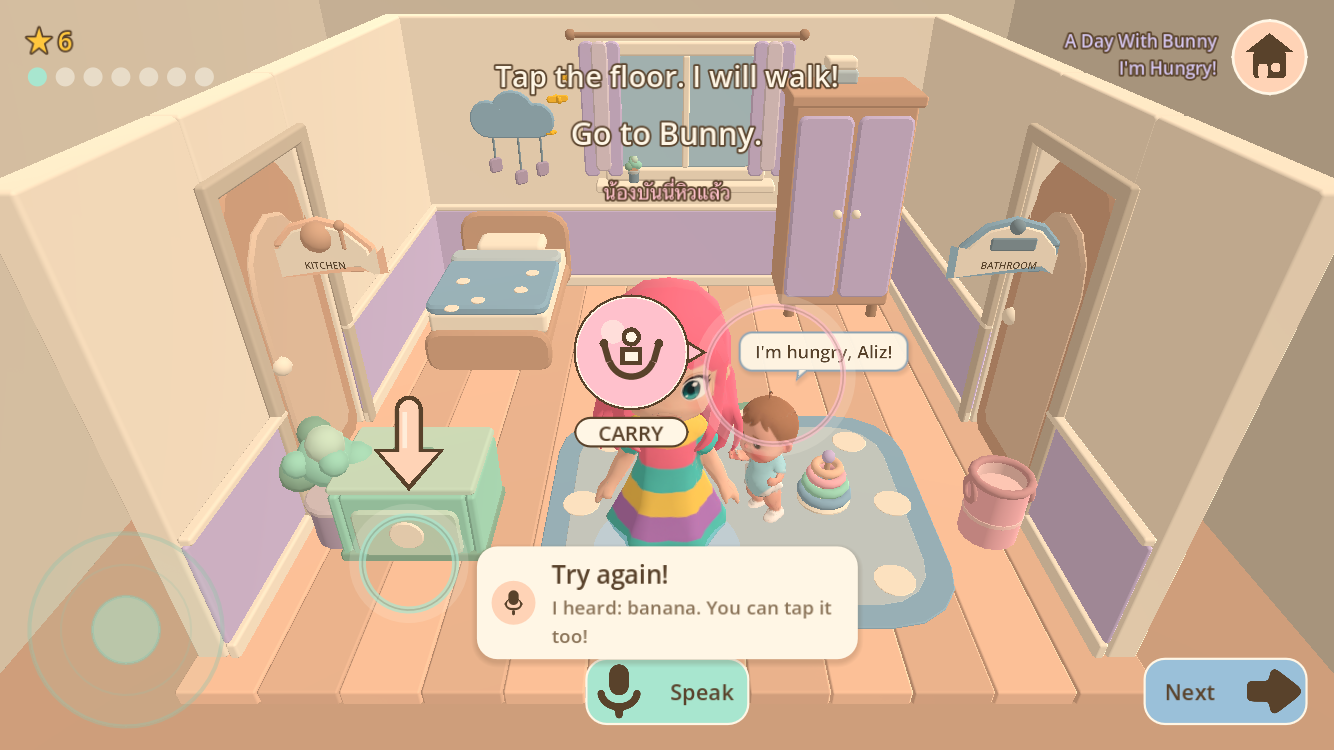
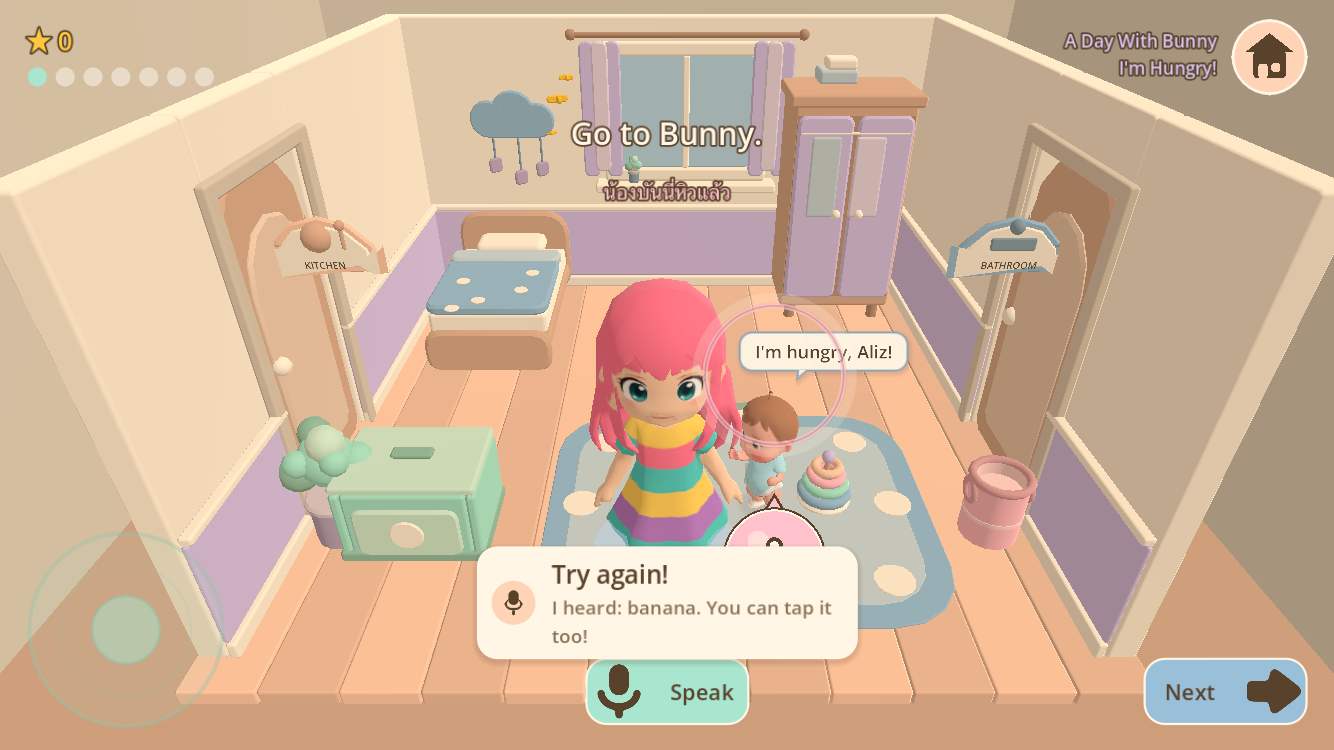
affordance: Aliz's face is a badge keep-out; door harness stages at an open door
QA of the integrated build (report and key frames committed) found the CARRY
disc on Aliz's face when she stands square to the camera in front of Bunny.
Her head is now a keep-out for every badge (evidence: face_ipad_story_hug.png,
badge below Bunny, bubble clear). The default UX harness expected ENTER on the
living-room door, which a free-starter profile locks (SOON is correct); it now
stages at the bedroom door.

diff --git a/docs/QA_INTEGRATED_cad57ef.md b/docs/QA_INTEGRATED_cad57ef.md
@@ -1,0 +1,204 @@
+# QA — integrated build cad57ef (Agent G, 2026-09-20)
+
+Read-only verification of `wt2/qa` at commit `cad57ef` ("chore: .uid sidecars for the character
+pass" — the fully integrated HEAD of six workstreams). Godot 4.7.2.stable, macOS, Metal / Mobile
+renderer. The speech plugin binaries were linked from the main checkout
+(`game/ios/speech_plugin/bin` symlink, the only non-`qa2_` untracked path in the worktree) so the
+editor build loads `LittleBuddySpeech` exactly as the shipping editor does.
+
+Every frame cited below was rendered in this session by the project's own harnesses (or by a
+QA-only probe script kept outside the repo in the session scratchpad) from the shipping scenes,
+saved as `docs/shots/qa2_*.png` (134 files), and opened and judged by eye. iPad = 1334x750,
+iPhone = 2340x1080, both from a `SubViewport` with the PNG size asserted; the two character
+tools (`aliz_shots.gd`, `bunny_shots.gd`) photograph the root window at 1334x750. Every `qa2_*.png`
+was re-measured afterwards: 86 x 1334x750, 46 x 2340x1080, plus the two tiled sheets
+(`qa2_aliz_face_sheet.png` 1986x792, `qa2_bunny_sheet.png` 3660x1037). **No wrong-size PNG.**
+
+Harnesses whose file names are fixed (feeding, carry, settings, branding) overwrite tracked
+frames; each output was copied to its `qa2_` name and the tracked original restored with
+`git checkout`, so the worktree's tracked files are unchanged. Where a re-render was byte-identical
+to the committed frame (deterministic renders: `feeding_summary_*`, `settings_*`, `settings_gate_*`)
+the fresh file's mtime was checked before copying.
+
+**No physical device was used. Nothing here is a device result. Nothing was committed.**
+
+## Verdict
+
+**0 crashes, 0 freezes, 0 tap-through completions, 0 duplicate Bunnies, 0 floating objects,
+0 tofu glyphs, 0 wrong-size frames, 0 mock-speech successes. Suite `PASS - 140 case(s)`, both
+mission smokes and the audio smoke green, backend `ios`.**
+
+Two visible defects should be looked at before the child plays (neither blocks the playtest);
+the rest is cosmetic. Details per acceptance test below and in "Release-blocking vs cosmetic".
+
+## Test and smoke results (verbatim)
+
+| Run | Result line(s) |
+|---|---|
+| `res://tests/run_tests.gd` (headless) | `PASS - 140 case(s), 0 failure(s)` |
+| `test_aliz_life` (inside the suite) | `idle proof -- bone deltas from rest, sampled 1.5 s apart:` / `t=0.3s  head (+1.03, -0.12, +0.49) cm  head 0.50 deg  spine 0.30 deg  hips 1.53 deg` / `t=1.8s  head (+1.25, +0.08, -0.70) cm  head 0.60 deg  spine 0.96 deg  hips 2.00 deg` / `t=3.3s  head (+1.27, -0.13, +0.51) cm  head 0.48 deg  spine 0.94 deg  hips 2.12 deg` / `t=4.8s  head (-1.28, +0.07, -0.29) cm  head 0.20 deg  spine 0.64 deg  hips 2.00 deg` |
+| suite cases named by the ATs | `[PASS] speech_end_states`, `[PASS] speech_never_mocks_on_device`, `[PASS] speech_never_required`, `[PASS] speech_privacy_guard`, `[PASS] click_to_move_freeze`, `[PASS] parent_gate`, `[PASS] parent_settings_screen`, `[PASS] feeding_table`, `[PASS] level_summary`, `[PASS] affordance`, `[PASS] bubble_placement`, `[PASS] carry_bunny`, `[PASS] carry_props`, `[PASS] hud_helper_language`, `[PASS] localization`, `[PASS] menu_wow`, `[PASS] branding_splash`, `[PASS] version`, `[PASS] bunny_life`, `[PASS] bunny_face`, `[PASS] aliz_face` |
+| `res://tests/smoke_mission01.gd` | `1. fresh profile opened: imHungry` … `3. beats played: 7, care mini-games finished by gesture: 2` / `4. Bunny's hunger after: 0.0 (was 55.0)` / `5. mission_completed fired 1 time(s); tasks awarded: 7` / `6. saved: completed=true stars=3/3  lifetime stars=10` / `7. replay re-armed 'imHungry'; lifetime stars still 10` / `SMOKE PASS -- Mission 01 played end to end in the real house.` |
+| `res://tests/smoke_mission01.gd -- snackTime` | `0. profile reset; 1 earlier level(s) marked played` / `1. fresh profile opened: snackTime` … `3. beats played: 8` / `6. saved: completed=true stars=3/3  lifetime stars=12` / `7. replay re-armed 'snackTime'; lifetime stars still 12` / `SMOKE PASS -- Mission 01 played end to end in the real house.` |
+| `res://tests/smoke_audio_shipping.gd` | `2. shipped manifest: []` / `3. main.tscn in the tree -> state 'menu', track 'littleDaysTheme'` / `live player: /root/Audio/MusicVoice0 ... from=little_days_theme.ogg imported=true playing=true -16.9 dB` / `4. house_world.tscn in the tree -> state 'house'` / `5. mission 'imHungry' running -> state 'miniGame', track 'hungryBunny'` / `live player: /root/Audio/MusicVoice1 ... from=hungry_bunny.ogg ... playing=true` / `6. AudioStreamPlayers holding a music stream, whole tree: 1` / `7. 4 room transitions later: track 'hungryBunny', position 1.02 s -> 2.32 s, track_started fired 1 time(s)` / `speaking -> music -26.0 dB (duck gain 0.316), still playing=true` / `9. mid-crossfade menu -> miniGame: ["littleDaysTheme @ -15.3 dB", "hungryBunny @ -26.1 dB"] (fading=true)` / `10. muted -> playing=false, players holding music=0` / `SMOKE PASS -- both delivered tracks play in the real game, one at a time,` |
+| QA house-music probe (headless, real `Audio` autoload) | `menu (main.tscn): state 'menu', track 'littleDaysTheme', is_playing_music=true, silent_build=false, live music players: ["MusicVoice0 playing=true pos=1.02"]` / `house Free Play (house_world.tscn): state 'house', track 'littleDaysTheme', is_playing_music=true ... ["MusicVoice0 playing=true pos=2.79"]` / `house after room change to kitchen: state 'house', track 'littleDaysTheme' ... ["MusicVoice0 playing=true pos=3.81"]` (same player, position only moves forward) |
+| QA speech-backend probe (headless, plugin linked) | `has_singleton LittleBuddySpeech: true` / `backend: ios` / `available: true  permission: false` / `fallbackActive: false` / `nativeSingletonPresent: true` / `platform: macOS` (`ttsAvailable: false` is the headless artefact; the on-disk `speech_diag.json` from windowed runs says `ttsAvailable: true`) |
+| QA splash timing probe (windowed, real `run/main_scene`) | `run/main_scene = res://scenes/splash/splash.tscn` / `t=0.02 s current_scene=res://scenes/splash/splash.tscn` / `t=1.72 s current_scene=res://scenes/main/main.tscn` / `SPLASH -> MENU hand-over at 1.72 s (limit 3.0 s): OK` (then `t=3.32 s current_scene=res://scenes/house/house_world.tscn` — the first-run auto hand-off, because this Mac's `user://profile.json` has no `onboardingDone`; by design, see AT1 notes) |
+| QA menu probe (windowed, 1334x750) | `garden ambient time 1.43 -> 4.57 s; Node3Ds tracked 891; translated 517; rotated 558` / `frames per second while menu ran: 60` / `press FreePlayButton: signal returned in 233 ms; 4.2 s later scenes=["house_world.tscn", ...]; departure=phase=done elapsed=2.51; fps=60; current_scene=house_world.tscn` / `press DressUpButton: ... scenes=["dress_up.tscn", ...]; fps=60; current_scene=dress_up.tscn` / `press ParentButton: ... scenes=["parent_settings.tscn", ...]; fps=60; current_scene=parent_settings.tscn` / `press PlayButton: ... scenes=["baby_room.tscn", ...]; departure=phase=done elapsed=2.52; fps=46; current_scene=baby_room.tscn` / `MENU PROBE OK` |
+| QA tap-through probe (windowed, real `baby_room.tscn` + `MissionRunner`, feedingTime) | `tap_item(apple): ok -- a plain tap did NOT deliver the apple (nudges=0, tapHelp=false)` / `real tap event: ok -- press+release at (667.0, 609.7944) did NOT deliver` / `real drag event: ok -- a real drag to the mouth DID deliver the apple; clip=eat` / `cup no hold: ok -- a cup released after 0.15 s (hold needs 1.2 s) did NOT deliver` / `cup held: ok -- holding 1.2 s DID deliver` / `after 1 nudge: ok -- one nudge: a tap still does NOT deliver` / `after 2 nudges: ok -- tap help offered after nudge #2` / `after 2 nudges: ok -- the touch fallback tap DID deliver` / `version: ok -- no version label visible in baby_room/highchair (found [])` / `TAPTHROUGH PROBE OK -- the highchair is not a tap-through` |
+| QA off-navmesh tap probe (windowed, real `house_world.tscn` Free Play, `NavigationController.apply_tap`) | `apron (5 m off the mesh, in front): tap at (0.4, 7.0) accepted=true; moved 1.68 m in 3.0 s; frames rendered 181 (60 fps); busy=false` / `far behind the left wall: tap at (-6.0, -2.0) accepted=true; moved 2.73 m in 3.0 s; frames rendered 183 (61 fps); busy=false` / `ordinary floor tap afterwards: ... accepted=true; moved 2.08 m ... busy=false` / `OFFMESH PROBE OK []` |
+| `shots_menu.gd` x5 (ipad, iphone, pressed, dressup mint, dressup iphone) | `MENU SHOT OK` each; `play caption: 'Start'`; `Aliz model available = true`; `swatch: mint  accent colour: (0.659, 0.902, 0.812, 1.0)` |
+| `tools/branding_shots.gd -- 1334 750` | `BRAND SHOTS OK` (4 frames, `aspect 1.78`) |
+| `shots_feeding.gd -- 1334x750` / `-- 2340x1080` | `FEEDING SHOTS OK -- 8 frame(s) at 1334x750.` / `FEEDING SHOTS OK -- 8 frame(s) at 2340x1080.`; every `_check_state` line `ok` (apple dragged, delivered, clip `eat`; banana unpeeled -> peeled; clip `drink` + cup tipped; `one mistake counted`, `Bunny's face is unhappy`, `half star`; `guided mode is on`; `session summary is up`) |
+| `shots_settings.gd -- ipad 1334x750` / `-- iphone 2340x1080` | `SETTINGS SHOTS OK` both; `th helper: 'น้องบันนี่หิวแล้ว' (rtl=false)`, `ja helper: 'バニーのところへ行こう。'`, `ar helper: 'اذهب إلى الأرنب.' (rtl=true)`; `speech success: 'Great!' / 'You said: milk'`, `speech retry: 'Try again!' / 'I heard: banana. You can tap it too!'`, `speech unavailable: 'Voice is not ready' / 'Tap it instead!'` |
+| `shots_ux.gd -- qa2_ux_ipad 1334 750 free` / iphone | `UX SHOTS OK` both; `badge_bedroom: disc 96 px on a 750 px tall frame` / `badge_bedroom: disc 138 px on a 1080 px tall frame`; `sofa_sit: origin (18.92, 0.03, -1.34), pose sit`; `locked_sign: SOON on bedroom.doorToBathroom` |
+| `shots_ux.gd -- qa2_ux_ipad 1334 750` / iphone (default run) | `UX SHOTS FAIL:` / `  - door_enter: the layer shows 'SOON' on 'kitchen.doorToLivingRoom'; expected ENTER on kitchen.doorToLivingRoom` (both sizes; every other frame in the run asserted ok — see AT4: the living room IS locked in Free Play on a fresh profile, so the sign is correct and the harness expectation is stale) |
+| `shots_ux.gd ... story` x2 | `UX SHOTS OK` both |
+| `shots_carry.gd -- ipad` / `-- iphone` | `CARRY SHOTS OK` both; `after a walk: Bunny root at (0.008567, 0.359867, -0.279995) in her frame, state=held, socket=true, clip=carried, activity=carried` / `placed: floor gap 0.000 m, 0.59 m from her, carried=false, state=idle` / `hunger before 55.0, after 55.0` / `toy held at (0.246676, 0.579834, -0.069118) in her frame, socket itemHoldRight` / `toy placed 0.000 m from its pad` |
+| `shots_rc.gd` x2 | `beat reached: 'feedBunnyCare'` / `RC SHOTS OK` (aspect 1.78 and 2.17) |
+| `tools/aliz_shots.gd -- qa2_aliz idle` / `mood`; `tools/bunny_shots.gd -- qa2_bunny` | all `ok`; `moods: ["content", "happy", "surprised", "sleepy"]` (+blink); Bunny `moods: ["content", "unhappy", "delighted", "asleep", "hungry", "sleepy", "hmph"]  clips: [..., "carried", "celebrate", "drink", "eat", "fuss", "idle", "run", "sleep", "stamp", "walk"]` |
+| `--headless --path game --import` | exit 0, no errors (one `cannot connect to daemon at tcp:5037` line = no adb, harmless) |
+
+## AT1 — Home screen
+
+| Sub-test | Result | Frame(s) | Notes / exact defect |
+|---|---|---|---|
+| Premium, colourful, non-empty | PASS | `qa2_menu_ipad.png`, `qa2_menu_iphone.png` | Storybook garden (11 trees, 51 flowers, 6 clouds, cat, butterflies, toys, mailbox, sign), pink cottage, Aliz + one Bunny, logo, four big pastel buttons. Readable at both sizes; iPhone safe-area composition is fine. |
+| Animated (two frames 3 s apart) | PASS | `qa2_menu_anim_t0.png`, `qa2_menu_anim_t3.png` | Probe counted 517 garden Node3Ds translated and 558 rotated between t=1.4 s and t=4.6 s (`garden.tick` via its own `_process`); by eye the clouds have drifted, the butterfly by the sign moved ~90 px, canopies lean. 60 fps. |
+| Start responds, no freeze | PASS | probe line | Departure walk plays (`phase=done elapsed=2.52`), hand-off to `baby_room.tscn` (story route, SaveService detached = non-first-run). 46 fps during the room load, back to 60. |
+| Free Play responds | PASS | probe line | Departure, hand-off to `house_world.tscn`, 60 fps. |
+| Dress Up responds and opens `dress_up.tscn` | PASS | `qa2_dressup_mint_ipad.png`, `qa2_dressup_iphone.png` | Opens the dress-up stage; swatch applies (mint hem/bow/shoes); Back button. Cosmetic: the bunting at the top edge is clipped by the frame at 1334x750. |
+| Grown-ups responds, full gate card in standalone mode | PASS | `qa2_settings_gate_ipad.png`, `qa2_settings_gate_iphone.png` | `parent_settings.tscn` comes up as the gate card: "For grown-ups / Press and hold the bar for 3 seconds… / Hold for 3 seconds to open (Thai line) / Back to the game". |
+| Version text only on the title screen | PASS | `qa2_menu_*.png` (present, `v0.1.0` bottom-right), `qa2_ux_*_home_version.png`, every house frame, every `qa2_feeding_*` frame (absent) | Probe: `version labels on title: [".../UI/SafeArea/VersionLabel 'v0.1.0' visible=true"]`; tap-through probe: `no version label visible in baby_room/highchair (found [])`. Note: the splash also prints `v0.1.0` bottom-right (`qa2_brand_splash_1334x750.png`) — branding screen, not the HUD; flagging in case "ONLY the title" was meant literally. |
+| Splash is first scene, hands over within 3 s | PASS | `qa2_brand_splash_intro_1334x750.png`, `qa2_brand_splash_1334x750.png`, `qa2_brand_curtain_1334x750.png` | `run/main_scene = res://scenes/splash/splash.tscn`; hand-over at **1.72 s**. Observation, by design: on this Mac's fresh profile (no `onboardingDone`) the menu then auto-opens the house at 3.32 s (`FIRST_RUN_DELAY_SEC` first-run tutorial). A returning profile does not do this. |
+
+## AT2 — Guided feeding (highchair)
+
+| Sub-test | Result | Frame(s) | Notes / exact defect |
+|---|---|---|---|
+| Start on a non-first-run profile -> `baby_room.tscn` | PASS | probe line | `press PlayButton ... current_scene=baby_room.tscn`. |
+| Apple: drag to mouth, Bunny bites (eat clip, sparkles) | PASS | `qa2_feeding_apple_drag_1334x750.png`, `qa2_feeding_apple_bite_1334x750.png` (+ 2340x1080) | Mid-drag apple lifted toward the mouth; bite frame: apple shrunk, yellow sparkle confetti, `clip=eat`, arms up. Cosmetic: during the eat clip the apple reads as sitting on his nose/cheek rather than at the lips. |
+| Banana: peel then give | PASS | `qa2_feeding_banana_unpeeled_*.png`, `qa2_feeding_banana_peeled_*.png` | Unpeeled -> peeled (skin splayed) on tap; then drag delivers. |
+| Cup/bottle: hold, Bunny drinks | PASS | `qa2_feeding_cup_drink_1334x750.png`, `_2340x1080.png` | `clip=drink`, cup tilt > 0.3, hands at the mouth, fill/hold works (probe: 0.15 s release does not deliver, 1.2 s hold does). Cosmetic: the tipped cup sits a little low, rim at the chin/hands rather than the lips, with the cup body overlapping the chest. |
+| Wrong item -> head turn, unhappy face, "Try the apple!", half star | PASS | `qa2_feeding_wrong_item_1334x750.png`, `_2340x1080.png` | Head turned away, brows down, "Try the apple!" pill, star counter shows the half star; `get_mistakes()==1`, `CREDIT_HALF`. |
+| Second mistake -> guided glow/arrow | PASS | `qa2_feeding_guided_1334x750.png`, `_2340x1080.png` | Apple plate glows, dotted arrow from Bunny down to the apple, `is_guided()==true`. |
+| Success -> celebrate | PASS | `qa2_feeding_apple_bite_*`, summary | `celebrate` clip present; summary "Great job!". |
+| NOT a tap-through | **PASS** | `qa2_feeding_tap_no_complete_1334x750.png` + probe lines | Public `tap_item("apple")`, and a real press+release `InputEventMouseButton` at the apple's screen position through the viewport input path, both leave the task open (`is_delivered=false`, hop only). Only the drag (or the 1.2 s hold for the cup) delivers. The touch fallback appears only after the second idle nudge (`NUDGE_IDLE_SECONDS 7.0` x `NUDGES_BEFORE_TAP_HELP 2`), and then it does deliver. |
+| Summary card | PASS | `qa2_feeding_summary_1334x750.png`, `_2340x1080.png` | "Great job! / Milk Time", 3 glossy stars, "+5", "So close!" half star, Apple sticker card, Back / Replay / Next. ("Milk Time" is the `levelTitle` of `feedingTime` by design.) |
+
+## AT3 — UI quality
+
+| Sub-test | Result | Frame(s) | Notes / exact defect |
+|---|---|---|---|
+| Buttons/icons polished and readable at both sizes | PASS | `qa2_menu_*`, `qa2_feeding_*_2340x1080`, `qa2_ux_iphone_*` | Bevelled pastel buttons with glyphs, consistent chrome; text legible at 2340x1080. |
+| Stars / reward / summary upgraded | PASS | `qa2_feeding_summary_*`, `qa2_feeding_wrong_item_*`, `qa2_rc_*_feed_done.png` | Glossy star sprites in the counter and the card, "So close!" half star, sticker card, "+N" line. |
+| Settings opens/closes fast, Close top-right, Done bottom, scrolls | PASS | `qa2_settings_ipad.png`, `qa2_settings_bottom_ipad.png`, `qa2_settings_iphone.png`, `qa2_settings_bottom_iphone.png` | Music/Voice sliders, Voice practice On/Off, Speaking speed, Helper language (Off/ไทย/中文/العربية/हिन्दी/日本語), Teaching language, Check speech, Replay Mission 01, Reset progress, **Done** bottom-right, **Close** top-right; scrollbar visible. Observation: the "Family Club" block lists proposed prices (USD 2.99 / THB 99) with "Nothing can be bought in this app"; behind the 3 s gate, information only. |
+| Gate passes with 3 s hold, Back works, never traps | PASS | `qa2_settings_gate_*.png`; suite `parent_gate`, `parent_settings_screen` | Hold bar + "Back to the game"; pause card offers Continue/Home/Grown-ups (`qa2_ux_*_pause.png`). |
+
+## AT4 — Free Play
+
+| Sub-test | Result | Frame(s) | Notes / exact defect |
+|---|---|---|---|
+| Move by tap, off-navmesh tap walks to nearest point, no freeze | PASS | `qa2_offmesh_apron_1334x750.png`, `qa2_offmesh_wall_1334x750.png` | 5 m off the mesh in front: accepted, walked 1.68 m to the room edge, 60 fps, not busy. 6 m behind the left wall: walked 2.73 m to the kitchen door (ENTER badge with door glyph shows there). Ordinary tap afterwards still works. Suite `click_to_move_freeze` PASS. |
+| Carry Bunny | PASS | `qa2_carry_bunny_front_{ipad,iphone}.png`, `qa2_carry_bunny_quarter_*.png` | Held through the rig socket, one Bunny, PLACE badge now has a glyph and steps aside from her face. |
+| Place Bunny on the bed (lies down) | PASS | `qa2_ux_{ipad,iphone}_bed_bunny.png` | Activity `bedtime`, lying on the mattress, one Bunny, "There you go!". |
+| Place Bunny at the table | PASS | `qa2_ux_{ipad,iphone}_table_bunny.png` | At his table spot (asserted < 0.08 m). Cosmetic: in the frame he is mostly hidden behind Aliz (harness stands her between camera and table). |
+| Wardrobe opens | PASS | `qa2_ux_*_wardrobe_open.png` | Doors open (asserted). Subtle visually. |
+| Fridge opens | PASS | `qa2_ux_*_fridge_open.png`, `qa2_ux_*_fridge_take.png` | OPEN then TAKE badges on `kitchen.fridge`. |
+| Toy box opens | PASS | `qa2_ux_*_toybox_open.png`, `qa2_ux_*_badge_bedroom.png` | Lid up, teddy inside. |
+| Sink opens the wash close-up | PASS (cosmetic note) | `qa2_ux_{ipad,iphone}_sink_wash.png` | `care_kind=washFace`, no badge under the overlay, "Wash! / ล้างหน้า / Rub the cloth all over the face." Cosmetic: the close-up shows a flat drawn placeholder face (pink disc with dot eyes), not the rigged Bunny used by the feeding portrait; a stray mint disc is clipped at the top-left corner (0,10). |
+| Locked bathroom/living room shows SOON, never ejects | PASS | `qa2_ux_{ipad,iphone}_locked_sign.png` (bathroom), `qa2_ux_{ipad,iphone}_door_enter.png` (living room) | Signpost glyph + "Soon! Ask a grown-up". `room_transition_controller.gd` refuses `locked` without moving her ("never moved, never ejected"). The default UX harness expects ENTER on `kitchen.doorToLivingRoom`; on a fresh profile the living room is locked, so its `UX SHOTS FAIL` is a stale expectation, not a game defect. |
+| Badges ≈ 96 px at 1334x750, never over joystick/Home/Next/bubble | PASS | `qa2_ux_ipad_badge_bedroom.png` (`disc 96 px`), `qa2_ux_iphone_badge_bedroom.png` (`138 px`), all `qa2_ux_*`, `qa2_house_helper_*`, `qa2_speech_*` | No badge over the stick, Home, Next or a speech bubble in any frame. Bubble "I'm hungry, Aliz!" fully legible in every frame at both sizes (the previous build's HUG-over-bubble collision is gone). See the face collision under "Characters" / defects. |
+
+## AT5 — Audio / voice / settings
+
+| Sub-test | Result | Evidence | Notes |
+|---|---|---|---|
+| Music in menu AND house (`littleDaysTheme`) | PASS | smoke step 3; QA house-music probe | Menu `littleDaysTheme` playing; house Free Play `state 'house', track 'littleDaysTheme'` on the same `MusicVoice0`, position only advancing through a room change. |
+| `hungryBunny` in the mission | PASS | smoke step 5 | `state 'miniGame', track 'hungryBunny' ... playing=true`. |
+| One player, no restart across rooms | PASS | smoke steps 6, 7 | `holding a music stream, whole tree: 1`; `4 room transitions later ... position 1.02 s -> 2.32 s, track_started fired 1 time(s)`. |
+| Settings has language + audio controls | PASS | `qa2_settings_ipad.png` | Music volume, Voice volume, Voice practice, Speaking speed, Helper language, Teaching language. |
+| Helper languages th/ja/ar render (no tofu) | PASS | `qa2_house_helper_{th,ja,ar}_{ipad,iphone}.png` | Thai, Japanese and Arabic (RTL) glyphs all render. Cosmetic/l10n: the Thai helper under "Go to Bunny." reads "น้องบันนี่หิวแล้ว" ("Bunny is hungry now") while ja/ar translate "Go to the bunny". The helper line is small (~16 px at 1334x750). |
+| Speech flow ends in exactly one of success/retry/unavailable | PASS | `qa2_speech_listening_*`, `qa2_speech_success_*`, `qa2_speech_retry_*`, `qa2_speech_unavailable_*` (both sizes); suite `speech_end_states` | Faces are staged through the panel's `set_state` (UI presentation) — no recogniser, mock or real, produced the "Great!" frame. |
+| Backend `ios` with the plugin linked; mock never selected | PASS | probe lines; suite `speech_never_mocks_on_device` | `backend: ios`, `nativeSingletonPresent: true`, `fallbackActive: false`; `_select_backend()` reaches the mock only when no singleton and not `mobile`. |
+
+## AT6 — Build readiness (headless only; export/APK/iOS are the lead's)
+
+| Sub-test | Result | Line |
+|---|---|---|
+| Headless suite | PASS | `PASS - 140 case(s), 0 failure(s)` |
+| `smoke_mission01.gd` | PASS | `SMOKE PASS -- Mission 01 played end to end in the real house.` (imHungry, 7 beats, 2 care games by gesture, stars 3/3) |
+| `smoke_mission01.gd -- snackTime` | PASS | `SMOKE PASS -- Mission 01 played end to end in the real house.` (snackTime, 8 beats, stars 3/3, lifetime 12) |
+| `smoke_audio_shipping.gd` | PASS | `SMOKE PASS -- both delivered tracks play in the real game, one at a time,` |
+| Noise in the suite log | note | 30 x `ERROR: Can't use get_node() with absolute paths from outside the active scene tree` from `house_level_director.gd:274 bind` via `test_camera_activity_focus.gd` — a test-environment artefact, every case still PASS. |
+
+## Characters
+
+| Check | Result | Frame(s) | Notes / exact defect |
+|---|---|---|---|
+| Aliz idle / blink / hair sway | PASS | `qa2_aliz_idle_{0,1,2}.png` (three distinct frames), suite bone deltas quoted above | Head ±1.3 cm, hips up to 2.1°, spine up to 1°. Blink frame `qa2_aliz_mood_blink_close.png`. |
+| Aliz face moods sheet | PASS | `qa2_aliz_face_sheet.png` (+ `qa2_aliz_mood_*_{close,far}.png`) | content, happy (open smile), surprised (o-mouth), sleepy, blink — all distinct; sleepy and blink are near-identical closed-eye faces (design choice). |
+| Bunny moods: hungry pout, sleepy, happy, hmph, blink | PASS (cosmetic note) | `qa2_bunny_sheet.png`, `qa2_bunny_hungry_close.png`, `qa2_bunny_sleepy_close.png`, `qa2_bunny_*_{far,close}.png` | All nine cells distinct (md5 checked). Cosmetic: the hungry/hmph left eyebrow is drawn as a kinked two-segment stroke; sleepy/unhappy/happy eyelids carry a few 1–3 px black specks at the lash line (visible in the close-up, faintly in `qa2_rc_iphone_feed_done.png`). |
+| Contact hint under feet, not a blob | PASS | `qa2_rc_ipad_feed_mid.png`, `qa2_ux_*_badge_bedroom.png`, `qa2_carry_bunny_placed_*` | Soft foot-shaped contact shadow under both characters. |
+| No neck seam in the feeding portrait | PASS | `qa2_rc_{ipad,iphone}_feed.png`, `_feed_mid.png` | Clean. |
+| No duplicate Bunny | PASS | every house frame, carry frames | One Bunny in every frame (he is absent from `qa2_ux_*_locked_sign.png` because the previous act put him down in the bathroom). |
+| Nothing floating | PASS | all frames | Milk carton, apple, banana, toys all on the floor/rug; Bunny on the mattress; `placed: floor gap 0.000 m`. |
+| No HUD text over a face | **FAIL (visible, medium)** | `qa2_house_helper_{th,ja,ar}_{ipad,iphone}.png`, `qa2_speech_*_{ipad,iphone}.png` (10 frames) | When Aliz stands directly in front of Bunny facing the camera, the CARRY affordance disc (pink circle + glyph) is drawn over Aliz's face; the "CARRY" pill sits under her chin. The bubble is clear. In the other staging (`qa2_ux_*_story_hug.png`, `qa2_carry_bunny_front_*`) the disc correctly steps aside to her left, so the dodge exists but misses this pose at both sizes. |
+| No wrong-size PNGs | PASS | all 134 `qa2_*.png` measured | 86 x 1334x750, 46 x 2340x1080, 2 sheets. |
+
+## Release-blocking vs cosmetic
+
+**Release-blocking (crash / freeze / tap-through / wrong content / missing geometry): none found.**
+
+**Visible — fix before the child sees it if there is time (not blocking the playtest):**
+
+1. CARRY affordance disc over Aliz's face when she stands in front of Bunny facing the camera —
+   `qa2_house_helper_th_ipad.png`, `qa2_house_helper_ja_iphone.png`, `qa2_speech_retry_iphone.png`
+   and the other seven frames of that staging, both sizes. The disc hides her eyes; the verb pill
+   sits under her chin. (Layer: `affordance_layer.gd` face-dodge; it works in the three-quarter
+   pose, `qa2_ux_iphone_story_hug.png`.)
+2. Wash close-up uses a flat placeholder face instead of the rigged Bunny —
+   `qa2_ux_{ipad,iphone}_sink_wash.png`. Functional (gesture completes, no badge underneath) but
+   it is the one close-up that does not look like the rest of the game; a stray mint disc is
+   clipped at the top-left corner of the same frame.
+
+**Cosmetic:**
+
+3. Feeding: during the eat clip the apple overlaps Bunny's nose/cheek (`qa2_feeding_apple_bite_*`);
+   the tipped cup sits at the chin/hands with its body over the chest (`qa2_feeding_cup_drink_*`).
+4. Bunny face texture: kinked left eyebrow on hungry/hmph; a few black specks at the lash line on
+   sleepy/unhappy/happy (`qa2_bunny_hungry_close.png`, `qa2_bunny_sleepy_close.png`,
+   `qa2_bunny_sheet.png`).
+5. Thai helper for "Go to Bunny." says "Bunny is hungry now" (`qa2_house_helper_th_*`); ja/ar
+   translate the prompt. Helper line is small (~16 px at 1334x750).
+6. Dress Up: bunting clipped at the top edge at 1334x750 (`qa2_dressup_mint_ipad.png`).
+7. Table act composition: Bunny hidden behind Aliz in `qa2_ux_*_table_bunny.png` (harness staging).
+8. Splash prints `v0.1.0` (a branding screen; the title screen also prints it; HUD and highchair
+   do not) — only matters if "ONLY the title" is literal.
+9. Default `shots_ux.gd` run: stale `door_enter` expectation (living room is locked in Free Play on
+   a fresh profile, so SOON is correct). Harness, not game.
+10. Suite log noise: 30 `Can't use get_node() with absolute paths` errors from
+    `test_camera_activity_focus.gd` -> `house_level_director.gd:274`; all cases PASS.
+
+**Observations that are by design but worth knowing for the playtest:**
+
+- On a fresh profile (no `onboardingDone`, which is this Mac's `user://` state after the smokes
+  reset it) the title screen auto-opens the first-run house ~1.6 s after it appears
+  (`FIRST_RUN_DELAY_SEC`); pressing Start first also opens the first-run house. A returning
+  profile shows Continue and routes to the story.
+- The grown-ups panel's "Family Club" block shows proposed prices as information only, behind the
+  3 s gate.
+
+## Method notes
+
+- Windowed harnesses on this Mac stalled twice mid-run while the Godot window was occluded
+  (`shots_feeding.gd -- 2340x1080` idled for 10 min after the guided frame; `bunny_shots.gd`
+  returned the same stale root-window image for its last 16 frames — md5-identical). Both
+  reproduced clean on an immediate re-run and the frames cited here are from the clean runs. This
+  is a capture-environment artefact (Metal drawable not presenting), not a game freeze: the
+  SubViewport harnesses assert their own state before each shot and every assertion passed.
+- The `shots_ux.gd` default, story and free runs write `qa2_`-prefixed names directly; the
+  fixed-name harnesses were collected as described in the header. `git status` shows only the
+  134 `qa2_*.png` files, this report, and the plugin `bin` symlink.
+- Probe scripts (menu, splash timing, tap-through, off-navmesh tap, speech backend, house music)
+  live in the session scratchpad, not in the repo; their verbatim output is quoted above.
